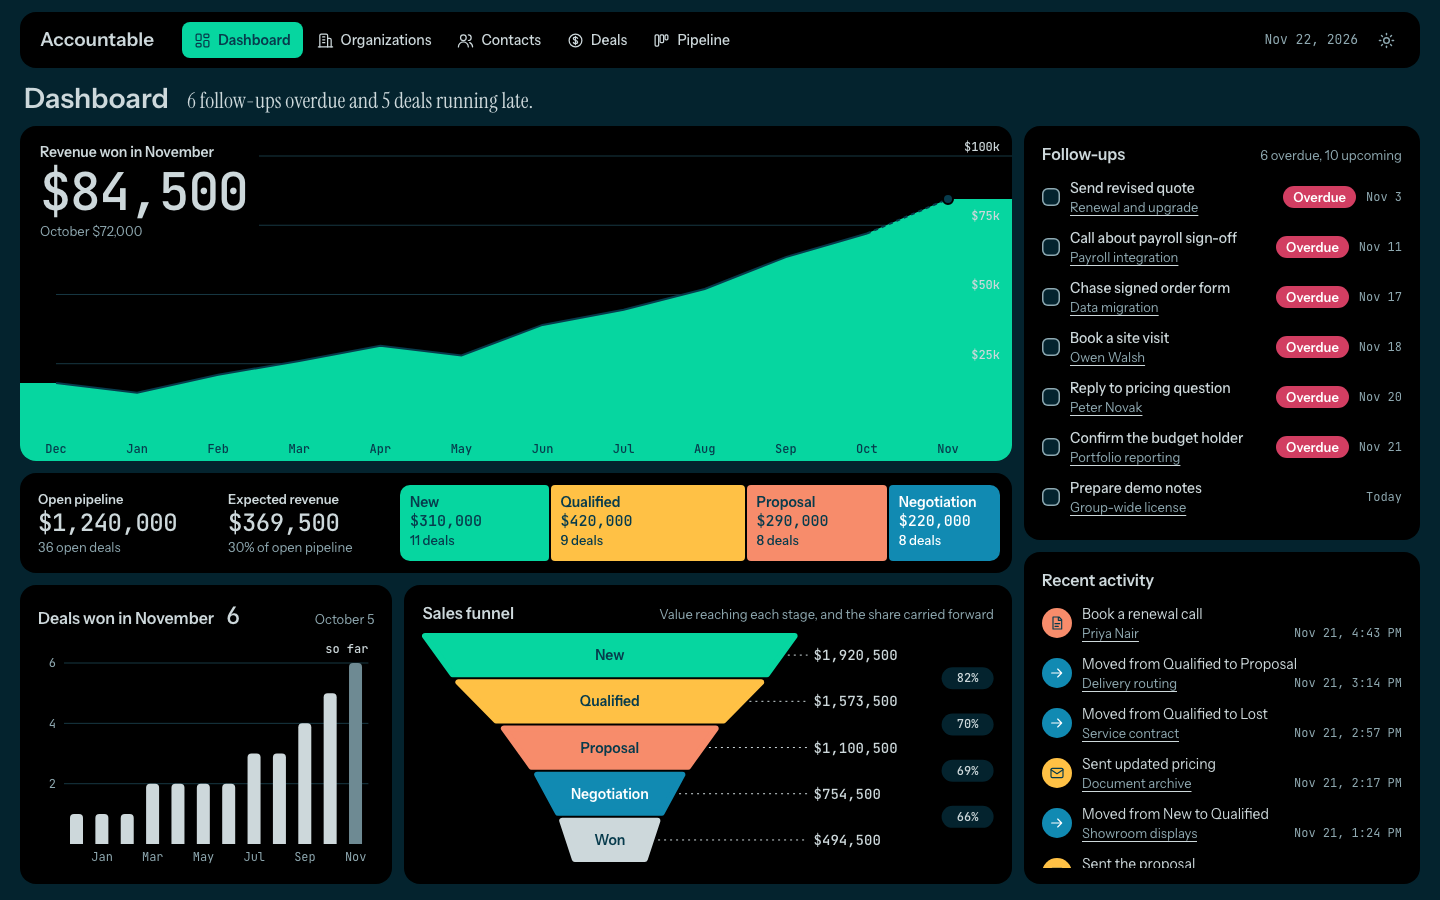
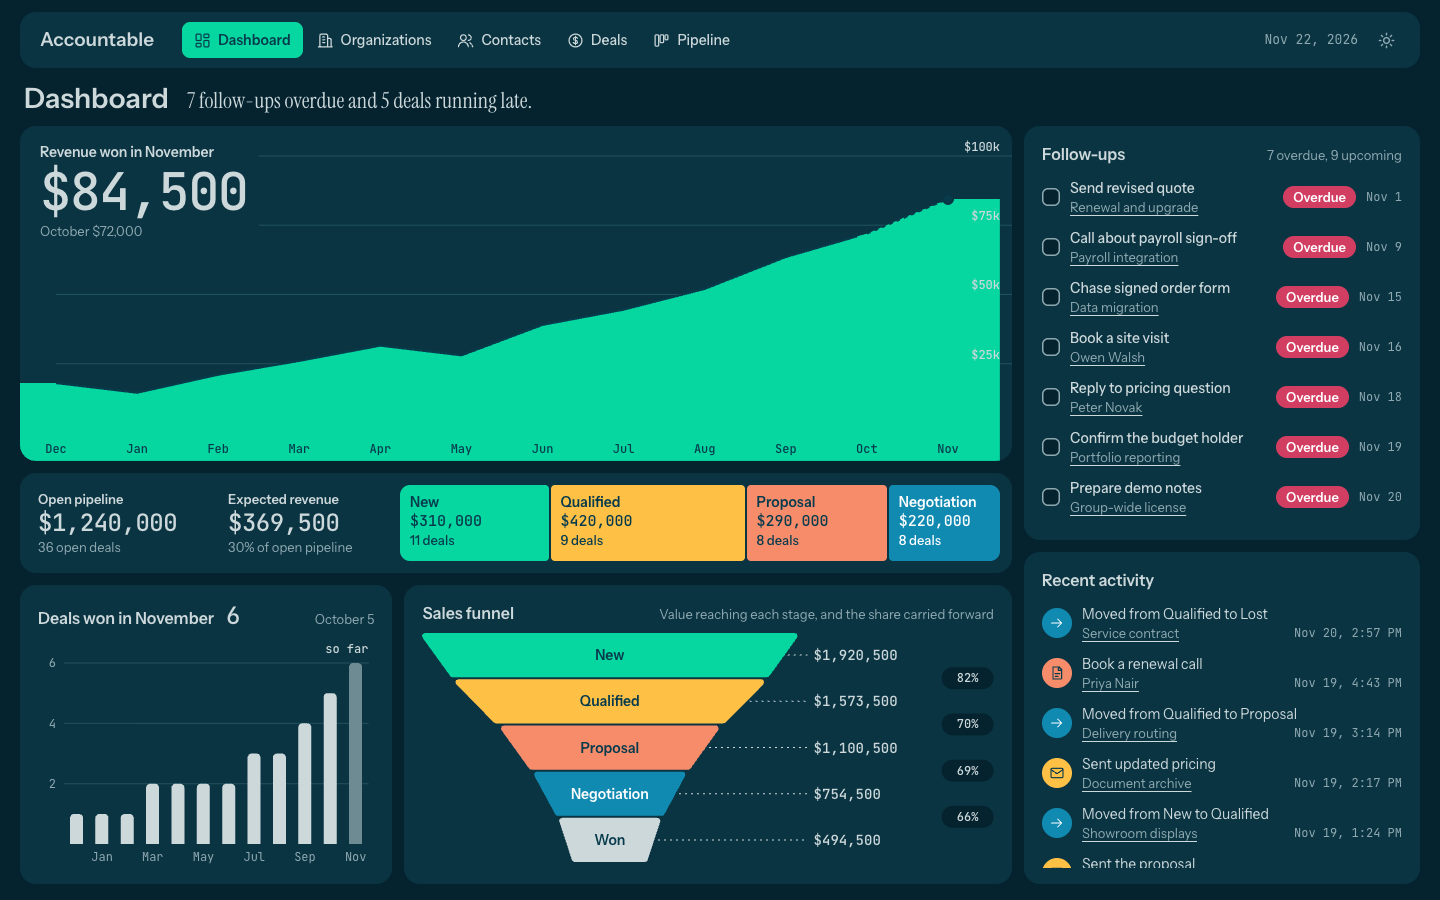
Deploy: review fixes

diff --git a/e2e/mode.spec.ts b/e2e/mode.spec.ts
@@ -9,7 +9,7 @@ const SECTIONS = ["/", "/organizations", "/contacts", "/deals", "/pipeline"];
 
 const LIGHT_PAGE = "rgb(240, 244, 245)";
 const DARK_PAGE = "rgb(4, 35, 46)";
-const BLACK = "rgb(0, 0, 0)";
+const DARK_PANEL = "rgb(10, 52, 66)";
 const MIDNIGHT = "rgb(7, 59, 76)";
 const SEA_MIST = "rgb(205, 216, 219)";
 
@@ -51,7 +51,7 @@ test("the toggle turns the page and panels dark, and says it will switch back", 
   await toggle(page, "Switch to dark mode").click();
 
   expect(await css(page.locator("body"), "background-color")).toBe(DARK_PAGE);
-  expect(await css(page.locator(".panel").first(), "background-color")).toBe(BLACK);
+  expect(await css(page.locator(".panel").first(), "background-color")).toBe(DARK_PANEL);
   await expect(toggle(page, "Switch to light mode")).toHaveAttribute("title", "Switch to light mode");
 });
 
@@ -61,14 +61,18 @@ test("the choice survives a reload, and is set before the app starts", async ({ 
   await expect(toggle(page, "Switch to light mode")).toBeVisible();
   expect(await css(page.locator("body"), "background-color")).toBe(DARK_PAGE);
 
-  // With the app's code held back, only index.html's own script can have set the mode.
-  await page.route("**/src/main.tsx", (route) => route.fulfill({ contentType: "text/javascript", body: "" }));
+  // Recorded the moment <body> arrives, before any app code has run, so only index.html can have set it.
+  await page.addInitScript(() => {
+    new MutationObserver((_changes, observer) => {
+      if (!document.body) return;
+      (window as unknown as { modeAtBody: string | null }).modeAtBody =
+        document.documentElement.getAttribute("data-mode");
+      observer.disconnect();
+    }).observe(document, { childList: true, subtree: true });
+  });
   await page.reload();
-  expect(await page.locator("#root").innerHTML()).toBe("");
-  expect(await modeAttribute(page)).toBe("dark");
-  await page.unroute("**/src/main.tsx");
+  expect(await page.evaluate(() => (window as unknown as { modeAtBody: string | null }).modeAtBody)).toBe("dark");
 
-  await page.reload();
   await toggle(page, "Switch to light mode").click();
   await page.reload();
   await expect(toggle(page, "Switch to dark mode")).toBeVisible();
@@ -81,7 +85,7 @@ test("in dark mode, dialogs, pickers, tooltips and messages are dark too", async
 
   await page.getByRole("button", { name: "Edit", exact: true }).click();
   const dialog = page.getByRole("dialog");
-  expect(await css(dialog, "background-color")).toBe(BLACK);
+  expect(await css(dialog, "background-color")).toBe(DARK_PANEL);
   const backdrop = dialog.locator("..");
   const [darkBackdrop, lightBackdrop] = await backdrop.evaluate((element) => {
     const color = () => getComputedStyle(element).backgroundColor;
@@ -96,13 +100,13 @@ test("in dark mode, dialogs, pickers, tooltips and messages are dark too", async
   await dialog.getByRole("combobox", { name: "Organization" }).click();
   const picker = page.getByRole("dialog").last();
   await expect(picker.getByRole("option").first()).toBeVisible();
-  expect(await css(picker, "background-color")).toBe(BLACK);
+  expect(await css(picker, "background-color")).toBe(DARK_PANEL);
   await page.keyboard.press("Escape");
 
   await dialog.getByRole("button", { name: "Save deal" }).click();
   const message = page.locator("[data-sonner-toast]").filter({ hasText: "Deal saved." });
   await expect(message).toBeVisible();
-  expect(await css(message, "background-color")).toBe(BLACK);
+  expect(await css(message, "background-color")).toBe(DARK_PANEL);
   expect(await css(message, "color")).toBe(SEA_MIST);
 
   await page.goto("/");
@@ -112,7 +116,7 @@ test("in dark mode, dialogs, pickers, tooltips and messages are dark too", async
   await page.mouse.move(box.x + box.width * 0.6, box.y + box.height * 0.6);
   const tip = page.getByTestId("chart-tooltip");
   await expect(tip).toBeVisible();
-  expect(await css(tip, "background-color")).toBe(BLACK);
+  expect(await css(tip, "background-color")).toBe(DARK_PANEL);
 });
 
 test("in dark mode, text on colored fills stays Midnight, and Won is filled in Sea Mist", async ({ page }) => {

diff --git a/frontend/src/tokens.test.ts b/frontend/src/tokens.test.ts
@@ -56,7 +56,7 @@ const PAIRS: [string, string, number][] = [
   ["won-ink", "won", 4.5],
   ["on-strong", "chip-info", 4.5],
   ["on-strong", "chip-alert", 4.5],
-  ["chip-alert", "panel", 4.5],
+  ["alert-text", "panel", 4.5],
   ["cerulean", "panel", 3],
   ["cerulean", "page", 3],
 ];
@@ -64,10 +64,15 @@ const PAIRS: [string, string, number][] = [
 // The spec states this one for dark mode only. Light mode's softer bar is unchanged.
 const DARK_PAIRS: typeof PAIRS = [["bar-soft", "panel", 3]];
 
+function namesIn(block: string) {
+  return [...block.matchAll(/^\s*--([\w-]+):/gm)].map(([, name]) => name);
+}
+
 describe("the color tokens", () => {
-  it("give every dark value a light one", () => {
-    for (const name of Object.keys(colorsIn(blockAfter('[data-mode="dark"]')))) {
-      expect(light, name).toHaveProperty(name);
+  it("give every dark value a light one, including the overlay and shadows", () => {
+    const lightNames = [...namesIn(blockAfter("@theme")), ...namesIn(blockAfter(":root"))];
+    for (const name of namesIn(blockAfter('[data-mode="dark"]'))) {
+      expect(lightNames, name).toContain(name);
     }
   });
 
@@ -104,11 +109,16 @@ describe("the color tokens", () => {
       "on-strong": "#ffffff",
       won: "#073b4c",
       "won-ink": "#cdd8db",
+      "alert-text": "#d23e62",
     });
   });
 
+  it("sit dark panels slightly lighter than the dark page", () => {
+    expect(luminance(dark.panel)).toBeGreaterThan(luminance(dark.page));
+  });
+
   it("use the spec's dark surfaces", () => {
-    expect(dark).toMatchObject({ page: "#04232e", panel: "#000000", ink: "#cdd8db", won: "#cdd8db" });
+    expect(dark).toMatchObject({ page: "#04232e", panel: "#0a3442", ink: "#cdd8db", won: "#cdd8db" });
   });
 });
 

diff --git a/frontend/src/styles.css b/frontend/src/styles.css
@@ -25,6 +25,7 @@
   --color-on-strong: #ffffff;
   --color-won: #073b4c;
   --color-won-ink: #cdd8db;
+  --color-alert-text: #d23e62;
   --color-overlay: color-mix(in oklab, #073b4c 40%, transparent);
 
   --font-sans: "Instrument Sans Variable", system-ui, sans-serif;
@@ -68,18 +69,20 @@
 [data-mode="dark"] {
   color-scheme: dark;
   --color-page: #04232e;
-  --color-panel: #000000;
+  --color-panel: #0a3442;
   --color-ink: #cdd8db;
   --color-muted: #8fa9b1;
   --color-sea-green-text: #06d6a0;
   --color-marigold-text: #ffc145;
   --color-late-tint: #3a1220;
-  --color-grid: #173843;
+  --color-grid: #23525f;
   --color-bar-soft: #6e8a93;
   --color-won: #cdd8db;
   --color-won-ink: #073b4c;
-  /* Midnight, not black: it lifts the black panels behind a dialog, so the dialog stands out. */
-  --color-overlay: color-mix(in oklab, #073b4c 70%, transparent);
+  /* The Raspberry chip shade is too dark to read as text on the navy panels. */
+  --color-alert-text: #ff7a99;
+  /* Black, not Midnight: it darkens the page behind a dialog, so the lighter navy dialog stands out. */
+  --color-overlay: color-mix(in oklab, #000000 60%, transparent);
 
   --shadow-lift: 0 10px 28px rgba(0, 0, 0, 0.6);
   --shadow-dialog: 0 12px 40px rgba(0, 0, 0, 0.6);
@@ -247,7 +250,7 @@
   }
 
   .input[aria-invalid="true"] {
-    box-shadow: inset 0 0 0 1.5px var(--color-chip-alert);
+    box-shadow: inset 0 0 0 1.5px var(--color-alert-text);
   }
 
   /* Only during a drag: on landing, cards take their new places without sliding. */

diff --git a/frontend/src/components/Field.tsx b/frontend/src/components/Field.tsx
@@ -15,7 +15,7 @@ export function Field({ label, htmlFor, error, children }: Props) {
       </label>
       {children}
       {error && (
-        <p role="alert" className="text-[13px] leading-[18px] text-chip-alert">
+        <p role="alert" className="text-[13px] leading-[18px] text-alert-text">
           {error}
         </p>
       )}

diff --git a/docs/spec.md b/docs/spec.md
@@ -46,7 +46,7 @@ These are the decisions the project owner has made on points that needed one.
 6. **Chrome only for now.** It's the one supported and tested browser. Safari and Firefox may work, but nobody will have checked.
 7. **The project owner checks H9 by hand.** The end-to-end tests prove each of the five answers is within two clicks of the dashboard, and the project owner checks that someone new, with only the sample data and no instructions, can find them.
 8. **In dark mode, Won takes Sea Mist.** A Midnight fill would vanish on the dark page, so wherever Won is filled in Midnight in light mode, such as its column header, its chip, its funnel segment and the deals-won bars, dark mode fills it in Sea Mist `#CDD8DB` with Midnight text. The other five stage colors, the small chip shades and the exceptions in decision 2 are the same in both modes.
-9. **Dark mode uses the brand's dark surfaces.** The page is `#04232E`, a deeper Midnight, and panels and cards are black, as the brand skill sets them. So in dark mode panels sit darker than the page rather than lighter, and they stand apart from it by tone alone, with no outline or shadow, as in light mode.
+9. **Dark mode panels sit slightly lighter than the page.** The page is `#04232E`, a deeper Midnight, and panels and cards are a navy `#0A3442` derived from Midnight, as the project owner chose in the intent. The brand skill makes them black, which would sit darker than the page. Panels stand apart from the page by tone alone, with no outline or shadow, as in light mode.
 
 ### Worth knowing
 
@@ -478,7 +478,7 @@ A timeline merges activities and stage changes in the backend, removes duplicate
 - **Today:** the page can stay open for days, so anything on screen that depends on the date uses `useToday`, which checks the clock every minute and whenever the window is used again. The dashboard reads its figures again when the day changes.
 - **Instant updates:** only the pipeline move and the follow-up tick update the screen before the server replies, and both roll back on failure.
 - **Board figures:** worked out in the browser from the deals list, so they change as a card lands. They use the same formula as the backend, with a unit test on each side using the same cases.
-- **Mode:** the mode is a `data-mode="dark"` attribute on the `<html>` element, absent in light mode. `styles.css` gives each color token its light value, then a second value under that attribute, and nothing else in the app names a color or a mode: components, charts, shadows and Sonner's messages all use the tokens, so they follow the mode without knowing about it. Tailwind's `dark:` variant isn't used, because it would scatter dark colors across components. The choice is stored in the browser's `localStorage` as `accountable-mode`, and anything other than `dark` reads as light. A short script in `index.html` sets the attribute before the page draws, so the app never flashes light before turning dark. Nothing new is installed: the toggle's sun and moon icons come from lucide-react.
+- **Mode:** the mode is a `data-mode="dark"` attribute on the `<html>` element, absent in light mode. `styles.css` gives each color token its light value, then a second value under that attribute, and nothing else in the app names a color or a mode: components, charts, shadows and Sonner's messages all use the tokens, so they follow the mode without knowing about it. Tailwind's `dark:` variant isn't used, because it would scatter dark colors across components. The choice is stored in the browser's `localStorage` as `accountable-mode`, and anything other than `dark` reads as light. A short script in `index.html` sets the attribute before the page draws, so the app never flashes light before turning dark. The dark block also sets `color-scheme: dark`, so the browser's own scrollbars, date pickers and form controls turn dark too. Nothing new is installed: the toggle's sun and moon icons come from lucide-react.
 - **Dragging:** a 6px move starts a drag, so a click still opens the deal. Keyboard dragging comes from dnd-kit's keyboard sensor. Cards are memoized to stay smooth at 500 deals. Columns aren't virtualized, because that conflicts with dropping a card anywhere. Each column is a droppable, and the board has one draggable that's pointed at a card as it's picked up. While a card is dragged, the others slide apart around a pale slot showing where it will land, and the gap closes behind it. `@dnd-kit/sortable` was dropped: its per-card hooks re-render every card each time a drag crosses a card, which took 241ms at 500 deals. The longest task on this board is about 70ms to 180ms, slowest on the first drags after loading.
 
 ## Screens
@@ -559,24 +559,24 @@ Every color in the app is one of these tokens, defined once in `styles.css` with
 | Token | Light | Dark | Use |
 |---|---|---|---|
 | Page | `#F0F4F5` | `#04232E` | Page background, row hover |
-| Panel | `#FFFFFF` | `#000000` | Panels, cards, the top bar, dialogs, pickers, tooltips and messages |
-| Ink | `#073B4C` Midnight | `#CDD8DB` Sea Mist | All body text and headings (dark: 14.44:1 on Panel, 11.24:1 on Page) |
-| Muted ink | `#4A6B76` | `#8FA9B1` | Secondary text (light: 5.74:1 on white, 5.19:1 on Page. Dark: 8.48:1 on Panel, 6.60:1 on Page) |
+| Panel | `#FFFFFF` | `#0A3442` | Panels, cards, the top bar, dialogs, pickers, tooltips and messages (dark: slightly lighter than Page, 1.23:1) |
+| Ink | `#073B4C` Midnight | `#CDD8DB` Sea Mist | All body text and headings (dark: 9.12:1 on Panel, 11.24:1 on Page) |
+| Muted ink | `#4A6B76` | `#8FA9B1` | Secondary text (light: 5.74:1 on white, 5.19:1 on Page. Dark: 5.36:1 on Panel, 6.60:1 on Page) |
 | On color | `#073B4C` Midnight | `#073B4C` Midnight | Text on Sea Green, Marigold, Coral and Sea Mist fills, the same in both modes |
 | Primary | `#06D6A0` Sea Green, Midnight text | The same | Main buttons, current section |
-| Sea Green text | `#047A5B` | `#06D6A0` | If Sea Green is ever needed as text (light: 5.33:1 on white, 4.81:1 on Page. Dark: 11.13:1 on Panel, 8.66:1 on Page) |
-| Marigold text | `#866522` | `#FFC145` | If Marigold is ever needed as text (light: 5.39:1 on white, 4.86:1 on Page. Dark: 12.97:1 on Panel, 10.09:1 on Page) |
-| Information | `#118AB2` Cerulean, white text | The same | Focus rings, stage-change entries, charts (dark: 5.30:1 on Panel, 4.13:1 on Page, above the 3:1 a focus ring needs) |
+| Sea Green text | `#047A5B` | `#06D6A0` | If Sea Green is ever needed as text (light: 5.33:1 on white, 4.81:1 on Page. Dark: 7.03:1 on Panel, 8.66:1 on Page) |
+| Marigold text | `#866522` | `#FFC145` | If Marigold is ever needed as text (light: 5.39:1 on white, 4.86:1 on Page. Dark: 8.19:1 on Panel, 10.09:1 on Page) |
+| Information | `#118AB2` Cerulean, white text | The same | Focus rings, stage-change entries, charts (dark: 3.35:1 on Panel, 4.13:1 on Page, above the 3:1 a focus ring needs) |
 | Alert | `#EF476F` Raspberry, white text | The same | Delete buttons, charts |
 | Small chip, Information | `#107FA4`, white text | The same | Negotiation chips (4.57:1) |
 | Small chip, Alert | `#D23E62`, white text | The same | Late, Overdue and Lost chips (4.56:1) |
+| Alert text | `#D23E62` | `#FF7A99` | Field error messages and the outline of a field with an error (light: 4.56:1 on white. Dark: 5.37:1 on Panel) |
 | Won fill | `#073B4C` Midnight, Sea Mist text | `#CDD8DB` Sea Mist, Midnight text | Won's column header, chip, funnel segment and deals-won bars (8.30:1 either way). See decision 8. |
 | Late tint | `#FDECF1` | `#3A1220` | Late cards (light: Midnight on it is 10.61:1. Dark: Sea Mist 11.22:1, Muted ink 6.59:1) |
-| Grid | `#E4ECEE` | `#173843` | Chart grid lines |
-| Bar, so far | `#839DA5` | `#6E8A93` | The current month's bar, a softer shade of Won fill (dark: 5.72:1 on Panel) |
+| Grid | `#E4ECEE` | `#23525F` | Chart grid lines |
+| Bar, so far | `#839DA5` | `#6E8A93` | The current month's bar, a softer shade of Won fill (dark: 3.61:1 on Panel) |
 | Shadow | Midnight at today's strengths | Black at 60% | The dragged card and dialogs, the only shadows |
-| Overlay | Midnight at 40% | Midnight at 70% | Dialog backdrops. In dark mode it lifts the black panels behind a dialog, so the dialog's edge shows. |
-| Overlay | Midnight at today's strength | Black at 60% | The backdrop behind a dialog |
+| Overlay | Midnight at 40% | Black at 60% | Dialog backdrops. In dark mode it darkens the page and panels behind a dialog, so the lighter navy dialog stands out. |
 
 White text on Cerulean, Raspberry and the two small chip shades stays white in both modes, so the ratios in decision 2 hold in dark mode too. No other text in dark mode falls below 4.5:1, which is the same rule light mode follows.
 
@@ -639,7 +639,7 @@ Numbers are always in JetBrains Mono, so columns of figures line up. Instrument 
 - **Pipeline band:** compact blocks, 76px tall, sized by value with 2px gaps. A small stage keeps a minimum width so its label still fits.
 - **All charts:** one axis per chart, so revenue and deal count are never on the same one. Pale horizontal grid lines only. Direct labels on the current month only, which is usually the highest in the sample data. Text is in ink, never the series color. Each chart has a hover tooltip.
 - **Money on axes:** shortened with the currency, such as `$40k` and `$1.2M`.
-- **In dark mode:** charts take every color from the tokens, so they change with the mode. The revenue line stays Midnight in both modes, because it sits on the Sea Green fill, and the month labels on that fill use On color. The deals-won bars use Won fill, and the current month uses Bar, so far. Text beside the charts, the funnel's values and leader lines, and the axis labels off the fill use Ink and Muted ink. The funnel's percentage pills use the Page color.
+- **In dark mode:** charts take every color from the tokens, so they change with the mode. The revenue line stays Midnight in both modes, because it sits on the Sea Green fill, and the month labels on that fill use On color. The deals-won bars use Won fill, and the current month uses Bar, so far. Text beside the charts, the funnel's values and the axis labels off the fill use Ink and Muted ink. The funnel's dotted leader lines stay Sea Mist in both modes. The funnel's percentage pills use the Page color.
 
 ### Motion
 

diff --git a/docs/changes/dark-mode/plan.md b/docs/changes/dark-mode/plan.md
@@ -67,8 +67,8 @@ Nothing visible changes in this phase, which is the point: it proves the refacto
 
 - **`ink` does two jobs today.** It's both the text color and the Midnight fill (Won's header and chip, the deals-won bars, the revenue line, dialog backdrops). Flipping `ink` to Sea Mist without splitting it first would turn backdrops pale and put Sea Mist text on Sea Green. Phase 2 splits it before any dark value exists, and the light-mode screenshot diff proves nothing moved.
 - **Inherited text on colored fills.** Sea Green, Marigold and Coral fills that don't set their own text color inherit `ink`, which becomes Sea Mist in dark mode at about 1.4:1. The Phase 3 walk looks for these, and the e2e test checks the computed text color on the current-section pill, a Qualified chip and the Won header.
-- **The brand and the intent disagree on panels.** Intent decision 2 says panels sit slightly lighter than the page. The brand skill makes them black, darker than `#04232E`, and the spec follows the brand (decision 9). If the owner prefers lighter panels, only the dark value of `panel` changes.
-- **Black panels on a dark page are low in contrast** (1.29:1). Panels have no outline by design, so they may read as flat. That's a call for the owner at Phase 5, not something to fix with borders.
+- **The brand and the intent disagree on panels.** Intent decision 2 says panels sit slightly lighter than the page. The brand skill makes them black, darker than `#04232E`. The owner chose the intent at review, so the spec (decision 9) uses navy `#0A3442` panels, with a lighter grid, a black backdrop behind dialogs and a lighter Alert text token for field errors to match.
+- **Navy panels on a dark page are low in contrast** (1.23:1). Panels have no outline by design, so they may read as flat. That's a call for the owner at Phase 5, not something to fix with borders.
 - **Recharts writes some colors as SVG attributes.** `var()` works in Chrome's presentation attributes, which the app already relies on, but any color Recharts computes in JavaScript wouldn't follow the token. The Phase 3 walk checks hover tooltips and the active dot.
 - **A flash of light mode.** If the inline script runs after the first paint, dark-mode users see a white flash on every load. The script sits in `<head>` with no `defer`, and an e2e test checks the attribute before React mounts.
 - **The inline script and `lib/mode.ts` duplicate the key.** A unit test reads `index.html` and checks they match.
@@ -102,7 +102,7 @@ Nothing visible changes in this phase, which is the point: it proves the refacto
 - `e2e/mode.spec.ts`
   - A fresh browser opens in light mode: no `data-mode` attribute, and the page background is `#F0F4F5`.
   - The toggle is in the top bar on all five sections and on a record page.
-  - Clicking it turns the page to `#04232E` and the panels to black, and changes its label to "Switch to light mode".
+  - Clicking it turns the page to `#04232E` and the panels to `#0A3442`, and changes its label to "Switch to light mode".
   - After a reload the app is still dark, and the attribute is already set when the page first draws, before React mounts. Switching back to light and reloading stays light.
   - In dark mode, an open dialog, its backdrop, a picker's list, a chart tooltip and a "Deal saved." message all use the dark tokens.
   - In dark mode, the current-section pill, a Qualified chip and the Won column header have Midnight text, and the Won header is filled in Sea Mist.

diff --git a/docs/STATUS.md b/docs/STATUS.md
@@ -19,8 +19,7 @@ Done, on the `dark-mode` branch (`docs/changes/dark-mode/`). The moon button at 
 
 - Light mode is unchanged: full-page screenshots of every section, a record page of each kind, a dialog and a chart tooltip matched the ones taken before the change pixel for pixel, apart from the date moving left to make room for the toggle.
 - Every color is a token in `styles.css`, with a light value and a dark one. A layout test fails if a component names a color or uses `dark:`, and `tokens.test.ts` checks every contrast ratio the spec states, in both modes.
-- Dialog backdrops in dark mode are Midnight at 70% rather than black, because black panels behind a black dialog hid its edge.
-- Worth a look from the project owner: black panels on the `#04232E` page are low in contrast (1.29:1), as the brand sets them, and Sea Mist link underlines don't show on Won's Sea Mist column header.
+- Panels and cards in dark mode are navy `#0A3442`, slightly lighter than the `#04232E` page, as the intent asks, rather than the brand skill's black. Dialog backdrops darken to black at 60% so a dialog stands out from the panels behind it, and field errors use a lighter Raspberry, `#FF7A99`, so they stay readable on navy.
 - Screenshots of the dashboard and the pipeline in both modes are in `docs/changes/dark-mode/`.
 
 ## Compared with the chosen mockup

diff --git a/docs/changes/dark-mode/intent.md b/docs/changes/dark-mode/intent.md
@@ -16,7 +16,7 @@ A dark mode with a toggle on every page, across every section.
 - Text in dark mode meets the same contrast rules as spec.md.
 - Charts, dialogs and messages follow the mode too.
 - No new dependencies unless the plan makes the case for one.
-u1 2 3, это что такое?
+
 ## Decisions
 
 Answers from the project owner on points the intent left open.
